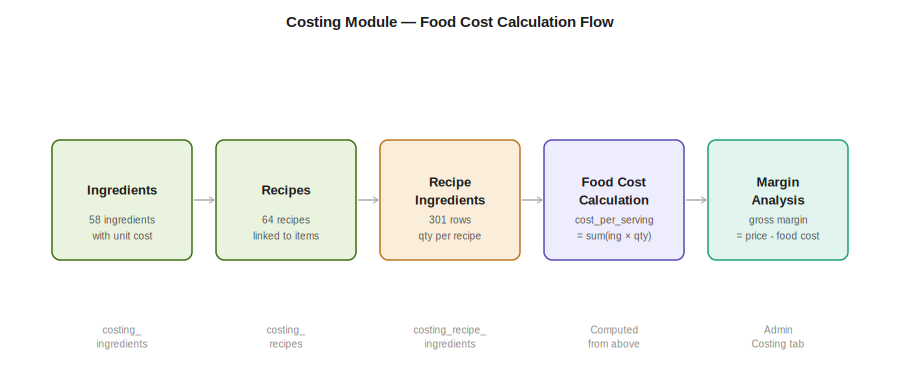
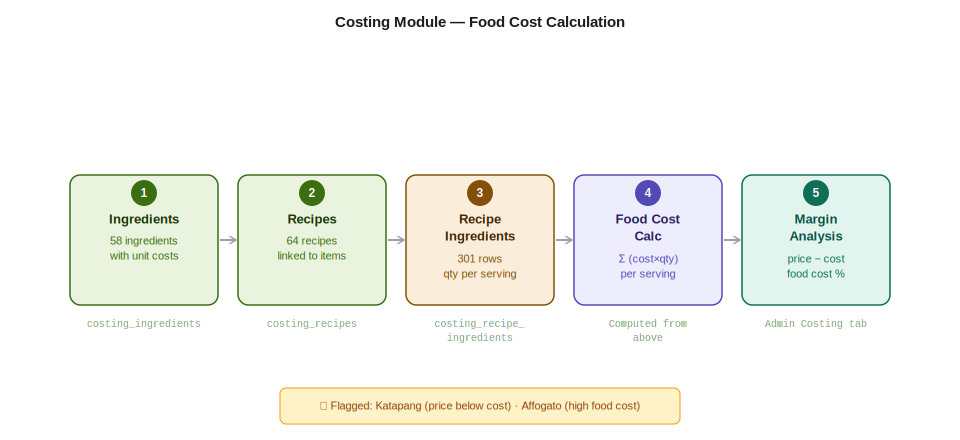
feat: apply v3.1 blueprint upgrades to live architecture page
DIAGRAMS (improved quality):
- system_architecture.png: 900px → 960px, cleaner layout, better labels
- docs/orderflow.png: improved parallel column layout with status badges
- docs/erd.png: proper entity boxes with field rows, color-coded by domain
- docs/costing.png: step-number circles, flagged items warning box

NEW UI SCREENSHOTS:
- docs/ui_customer.png: mobile customer menu (390px, card grid, Signature badges)
- docs/ui_kitchen.png: kitchen display (1024px, status cards with size+sugar)
- docs/ui_admin.png: admin order board (1280px, sidebar + stat cards + order grid)

NEW SECTIONS in architecture.html:
- UI Screenshots: 3 screenshots with lightbox click-to-zoom
- Changelog: v1.0 (GAS, Feb 2024) through v3.1 (Apr 2026) + pending v3.2+ list
- Quick Reference: staff cheat sheet with URLs, order status guide,
  PWD/Senior discount formula with worked example, emergency procedures

NAVIGATION:
- Added UI Screenshots, Changelog, Quick Reference links to sidebar
- Updated scrollspy section list to include all 3 new sections

diff --git a/architecture.html b/architecture.html
@@ -71,7 +71,9 @@
     .job{display:flex;gap:14px;padding:10px 0;border-bottom:1px solid var(--border);font-size:13px}.job:last-child{border-bottom:none}
     .job-time{font-family:var(--mono);font-size:11px;color:var(--teal);min-width:150px;padding-top:1px;flex-shrink:0}
     .job-desc{color:var(--white)}.job-desc strong{color:var(--white2)}
-    @media(max-width:768px){.sidebar{display:none}.main{padding:20px}}
+    pre{background:var(--surface2);border:1px solid var(--border);border-radius:8px;padding:12px 14px;font-family:var(--mono);font-size:12px;color:var(--white);overflow-x:auto;line-height:1.6;margin-bottom:12px}
+  h3{font-size:14px;font-weight:600;color:var(--white2)}
+  @media(max-width:768px){.sidebar{display:none}.main{padding:20px}}
   </style>
 </head>
 <body>
@@ -101,7 +103,10 @@
   <div class="nav-link" onclick="goTo('auth',this)"><div class="nav-dot"></div>Auth &amp; roles</div>
   <div class="nav-link" onclick="goTo('jobs',this)"><div class="nav-dot"></div>Automated jobs</div>
   <div class="nav-label">Reference</div>
-  <div class="nav-link" onclick="goTo('business-day',this)"><div class="nav-dot"></div>Business day definition</div>
+  <div class="nav-link" onclick="goTo('ui-screenshots',this)"><div class="nav-dot"></div>UI screenshots</div>
+  <div class="nav-link" onclick="goTo('changelog',this)"><div class="nav-dot"></div>Changelog</div>
+  <div class="nav-link" onclick="goTo('quick-ref',this)"><div class="nav-dot"></div>Quick reference</div>
+  <div class="nav-link" onclick="goTo('business-day',this)"><div class="nav-dot"></div>Business day</div>
   <div class="nav-link" onclick="goTo('stack',this)"><div class="nav-dot"></div>Tech stack</div>
 </nav>
 
@@ -293,6 +298,90 @@ Failed login:
   <p style="font-size:13px;color:var(--gray);margin-top:8px;line-height:1.7">Why 6AM? The cafe closes well before midnight. Orders after midnight are almost always test orders. The 6AM cutoff ensures daily totals match what staff think of as &ldquo;yesterday&rsquo;s business.&rdquo; The shift summary counts COMPLETED + READY + PREPARING to avoid undercounting when staff skip the COMPLETE step.</p>
 </div>
 
+
+<div class="section" id="ui-screenshots">
+  <div class="section-header"><div class="section-icon teal">&#128444;</div><h2>UI Screenshots <span class="num">&mdash; Customer menu &middot; Kitchen &middot; Admin</span></h2></div>
+  <p class="section-desc">The three main interfaces. Customer menu is mobile-first (390px). Kitchen display runs on a tablet or counter monitor. Admin panel is desktop (1280px+).</p>
+
+  <div style="display:grid;grid-template-columns:1fr 2fr;gap:20px;margin-bottom:24px;align-items:start">
+    <div>
+      <div class="diagram-bar" style="border-radius:var(--border-radius-md) var(--border-radius-md) 0 0"><span class="title">Screenshot 1 &mdash; Customer menu (mobile)</span></div>
+      <img src="/docs/ui_customer.png" alt="Customer ordering menu" style="width:100%;display:block;border:1px solid var(--border);border-top:none;border-radius:0 0 var(--border-radius-md) var(--border-radius-md);cursor:zoom-in" onclick="openFull(this.src)"/>
+      <p style="font-size:11px;color:var(--gray);margin-top:6px;line-height:1.5">Card grid with size/sugar selectors. Yani&rsquo;s Signature badge on featured items. Cart in header.</p>
+    </div>
+    <div>
+      <div class="diagram-bar" style="border-radius:var(--border-radius-md) var(--border-radius-md) 0 0"><span class="title">Screenshot 2 &mdash; Kitchen display (1024px)</span></div>
+      <img src="/docs/ui_kitchen.png" alt="Kitchen display" style="width:100%;display:block;border:1px solid var(--border);border-top:none;border-radius:0 0 var(--border-radius-md) var(--border-radius-md);cursor:zoom-in" onclick="openFull(this.src)"/>
+      <p style="font-size:11px;color:var(--gray);margin-top:6px;line-height:1.5">Color-coded by status. Shows size + sugar per item. START / READY / COMPLETE buttons per card.</p>
+    </div>
+  </div>
+
+  <div class="diagram-wrap">
+    <div class="diagram-bar"><span class="title">Screenshot 3 &mdash; Admin order board (1280px)</span><span class="fig">OWNER view &middot; all tabs visible</span></div>
+    <img src="/docs/ui_admin.png" alt="Admin panel" style="width:100%;display:block;cursor:zoom-in" onclick="openFull(this.src)"/>
+  </div>
+  <p style="font-size:11px;color:var(--gray);line-height:1.5;margin-bottom:20px">Sidebar navigation (OWNER sees all tabs). Stat cards for revenue, active orders, avg order, pending payments. Order grid with status colour-coding. CASHIER sees a subset; KITCHEN sees status-only view.</p>
+</div>
+
+<div class="section" id="changelog">
+  <div class="section-header"><div class="section-icon purple">&#128203;</div><h2>Changelog <span class="num">&mdash; v1.0 (2024) to v3.1 (Apr 2026)</span></h2></div>
+  <table>
+    <tr><th>Version</th><th>Date</th><th>What changed</th></tr>
+    <tr><td>v1.0 (GAS)</td><td>Feb 2024</td><td>Initial build: Google Apps Script + Google Sheets. 18 endpoints via doPost(). 7-tab spreadsheet as DB. Table QR codes with token auth.</td></tr>
+    <tr><td>v2.0 (Supabase)</td><td>Nov 2025</td><td>Full migration to Supabase PostgreSQL + Vercel serverless. 24 tables with RLS. bcrypt PIN auth + JWT. 3 Vercel deployments. GAS backend fully retired.</td></tr>
+    <tr><td>v2.1</td><td>Jan 2026</td><td>Admin panel split from one 8,961-line HTML file into 8 separate JS modules. admin.html reduced to 1,812 lines.</td></tr>
+    <tr><td>v2.2</td><td>Feb 2026</td><td>Role permissions moved to DB table (27 rules). GitHub Actions post-deploy audit added (15 checks). Offline fallback page added.</td></tr>
+    <tr><td>v2.3</td><td>Feb 2026</td><td>Supabase Storage for payment screenshots. Nightly discount integrity Edge Function. Discount warning banner in edit order modal.</td></tr>
+    <tr><td>v3.0</td><td>Mar 2026</td><td>Low stock alerts (8AM + 2PM PHT). Inventory auto-deduct. Weekly report email. Yani&rsquo;s Signature badge. ORDER_PREFIX from DB settings.</td></tr>
+    <tr><td>v3.1</td><td>Apr 2026</td><td>Security hardening: removed hardcoded anon key, removed PINs/tokens from public HTML, fixed vercel.json dead function references. Architecture page rebuilt with live diagrams + UI screenshots + changelog.</td></tr>
+  </table>
+  <div class="warn" style="margin-top:8px"><strong>Pending v3.2+:</strong> Enroll remaining 54 items in inventory &middot; Split api/pos.js with esbuild pipeline &middot; Add uptime monitoring &middot; PayMongo auto-verification for GCash payments &middot; Receipt printer integration</div>
+</div>
+
+<div class="section" id="quick-ref">
+  <div class="section-header"><div class="section-icon amber">&#128203;</div><h2>Quick Reference <span class="num">&mdash; Staff cheat sheet</span></h2></div>
+  <div class="info" style="margin-bottom:20px"><strong>Print this section</strong> and keep it at the counter. Staff only need this for day-to-day operation.</div>
+
+  <h3 style="font-size:14px;font-weight:600;color:var(--white2);margin:0 0 10px">URLs</h3>
+  <table>
+    <tr><th>Purpose</th><th>URL</th></tr>
+    <tr><td>Customer ordering menu</td><td><code>https://yanigardencafe.com</code></td></tr>
+    <tr><td>Admin panel</td><td><code>https://admin.yanigardencafe.com</code></td></tr>
+    <tr><td>Kitchen display</td><td><code>https://admin.yanigardencafe.com/kitchen.html</code></td></tr>
+    <tr><td>Order tracker (for customers)</td><td><code>https://yanigardencafe.com/track</code></td></tr>
+    <tr><td>Online delivery orders</td><td><code>https://yanigardencafe.com/online-order</code></td></tr>
+    <tr><td>System blueprint</td><td><code>https://yanigardencafe.com/architecture</code></td></tr>
+    <tr><td>Offline emergency page</td><td><code>https://yanigardencafe.com/offline</code></td></tr>
+  </table>
+
+  <h3 style="font-size:14px;font-weight:600;color:var(--white2);margin:16px 0 10px">Order status guide</h3>
+  <table>
+    <tr><th>Status</th><th>Staff action</th><th>When</th></tr>
+    <tr><td><span class="badge amber">NEW</span></td><td>Click START as soon as you see it</td><td>Immediately when order arrives</td></tr>
+    <tr><td><span class="badge blue">PREPARING</span></td><td>Click READY when all items are done</td><td>Barista/cook finishes the order</td></tr>
+    <tr><td><span class="badge green">READY</span></td><td>Bring to table, then click COMPLETE</td><td>After delivering to customer</td></tr>
+    <tr><td><span class="badge red">CANCELLED</span></td><td>Click CANCEL at any step</td><td>Wrong order / out of stock / customer cancels</td></tr>
+  </table>
+
+  <h3 style="font-size:14px;font-weight:600;color:var(--white2);margin:16px 0 10px">Discount formula (printed receipts)</h3>
+  <pre style="background:var(--surface);border:1px solid var(--border);border-radius:8px;padding:12px;font-size:12px;color:var(--white);line-height:1.7">(total &divide; number of pax) &times; 20% &times; qualifying persons
+
+Example: &#8369;526.90 total, 3 people, 1 PWD
+  &#8369;526.90 &divide; 3 = &#8369;175.63 per person
+  PWD discount = &#8369;175.63 &times; 20% = &#8369;35.13
+  New total = &#8369;526.90 &minus; &#8369;35.13 = &#8369;491.77</pre>
+
+  <h3 style="font-size:14px;font-weight:600;color:var(--white2);margin:16px 0 10px">Emergency procedures</h3>
+  <table>
+    <tr><th>Situation</th><th>What to do</th></tr>
+    <tr><td>System down / 404</td><td>Go to <code>/offline</code> for manual order procedure. System auto-retries every 30s.</td></tr>
+    <tr><td>Customer can&rsquo;t scan QR</td><td>Walk-up POS: admin &rarr; Payments &rarr; &ldquo;New Order&rdquo; button</td></tr>
+    <tr><td>GCash payment issue</td><td>Ask for screenshot. Upload via payment screen. Verify in admin &rarr; Payments tab.</td></tr>
+    <tr><td>Forgot PIN</td><td>OWNER resets: admin &rarr; Staff &rarr; Change PIN</td></tr>
+    <tr><td>Wrong item ordered</td><td>Edit order before COMPLETED, or use admin &rarr; Refunds</td></tr>
+  </table>
+</div>
+
 <div class="section" id="stack">
   <div class="section-header"><div class="section-icon purple">&#128296;</div><h2>Tech Stack <span class="num">&mdash; Current production system</span></h2></div>
   <div class="card-grid">
@@ -330,7 +419,7 @@ function closeFull(){
   document.getElementById('lightbox').style.display='none';
 }
 window.addEventListener('scroll',function(){
-  var sections=['overview','arch','order-flow','online-flow','payment-flow','erd','costing','api','auth','jobs','business-day','stack'];
+  var sections=['overview','arch','order-flow','online-flow','payment-flow','erd','costing','api','auth','jobs','ui-screenshots','changelog','quick-ref','business-day','stack'];
   var current='';
   sections.forEach(function(id){
     var el=document.getElementById(id);
